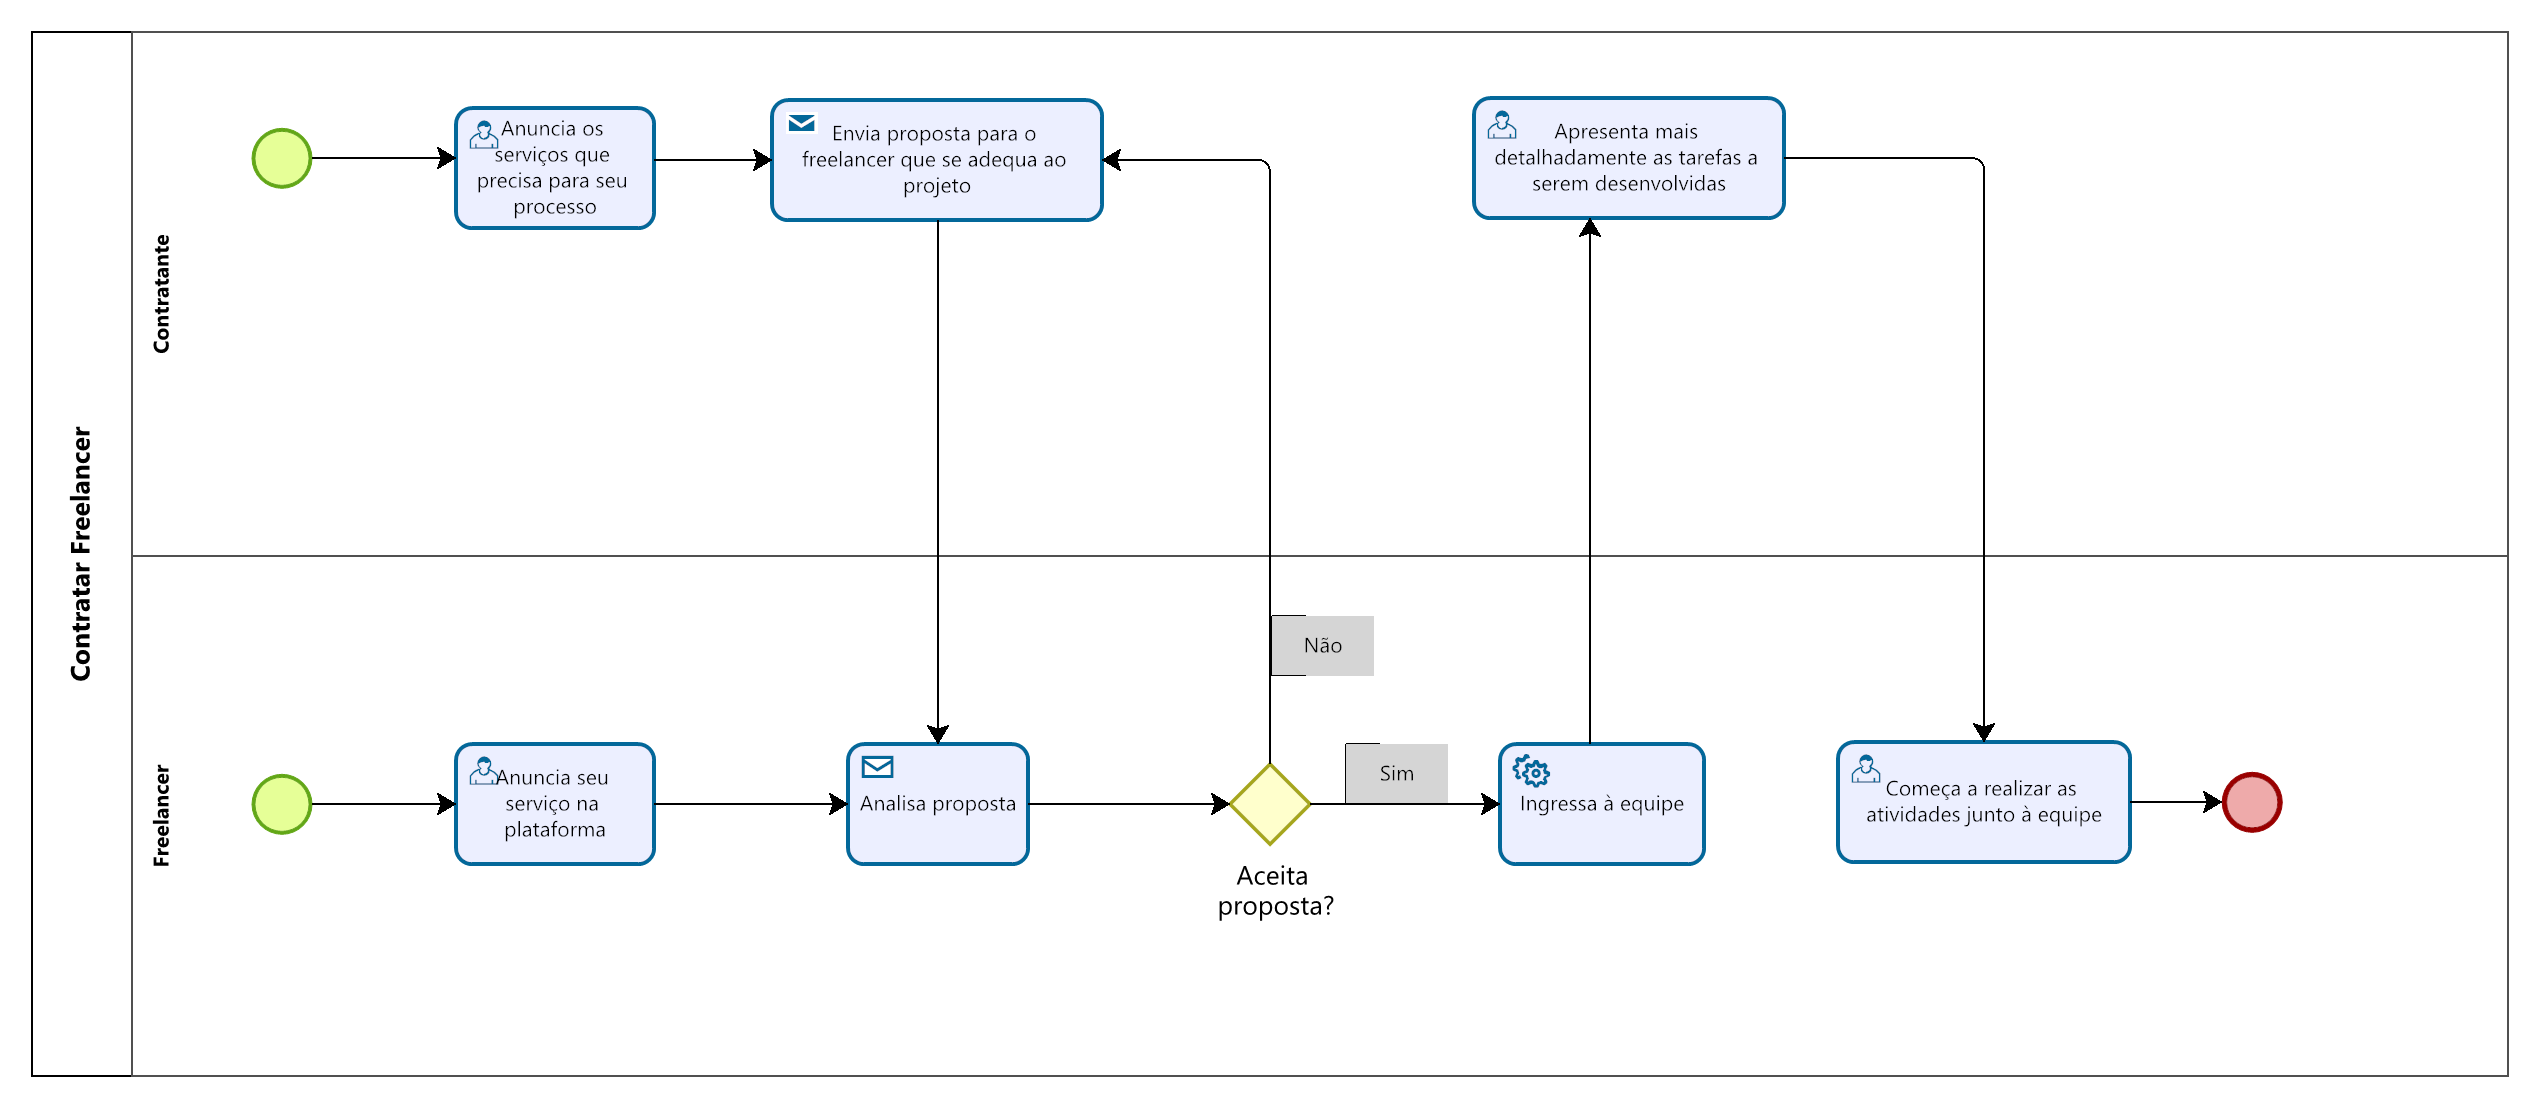
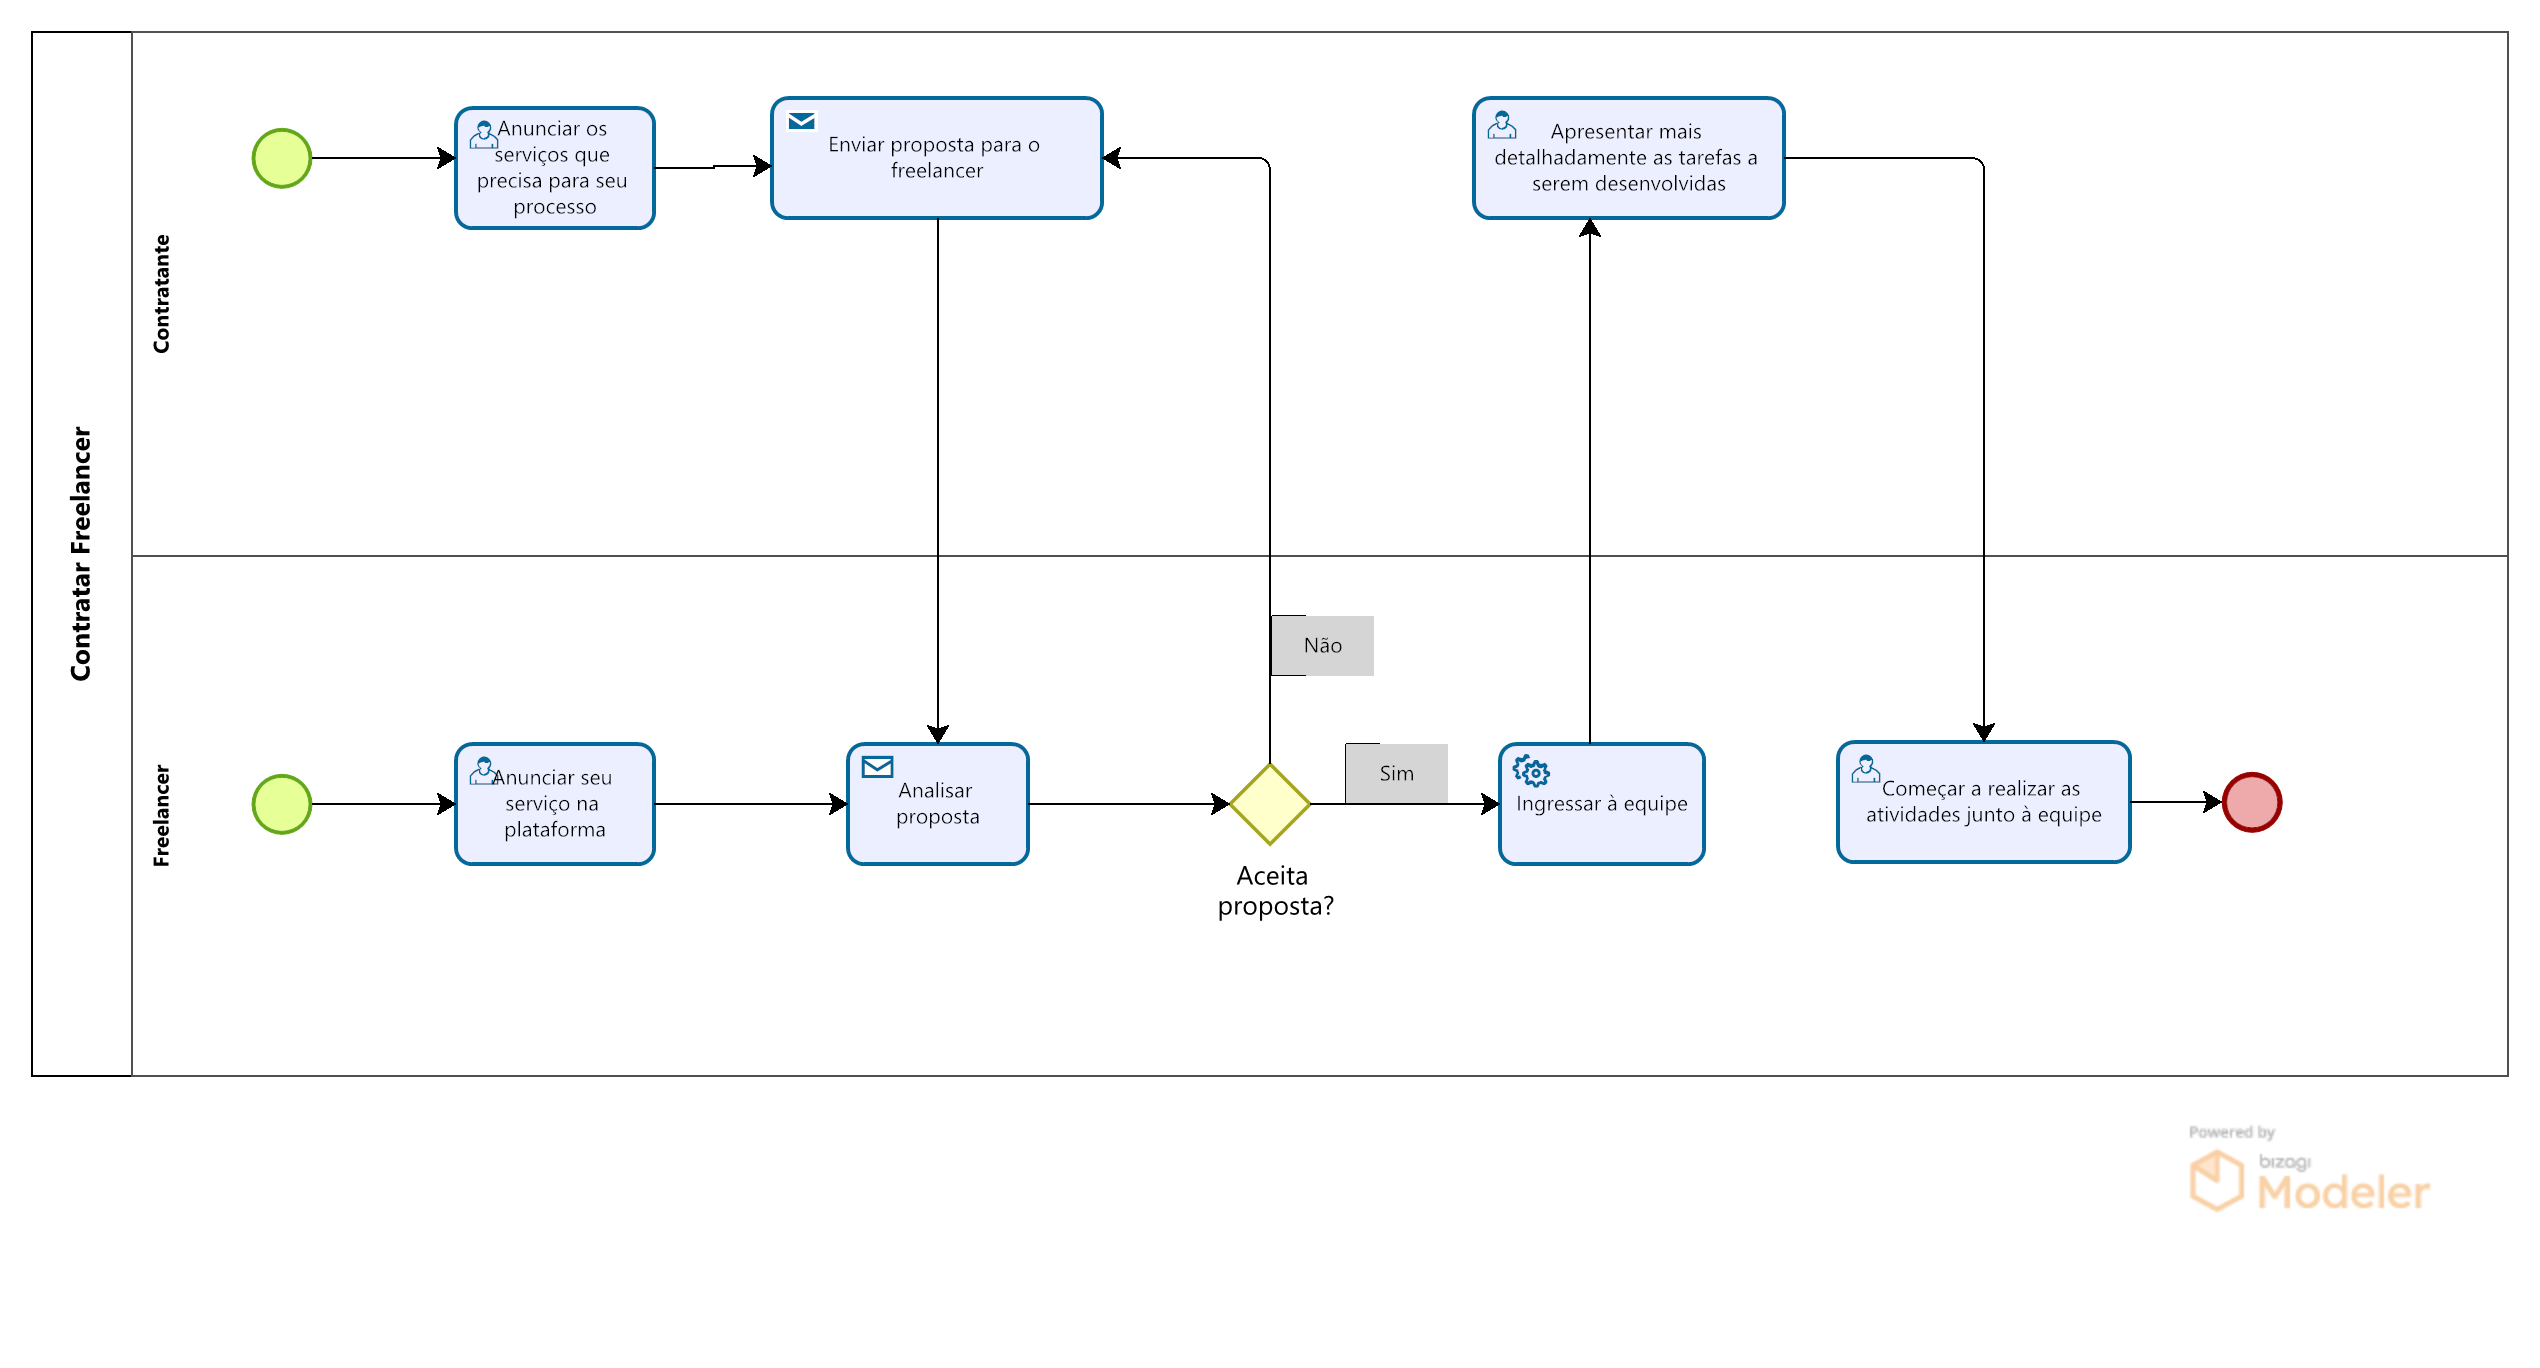
#34 - [Documentação] Correção processo 4: Contratar freelancer.

diff --git a/docs/processos/processo-4-contratar-freelancer.md b/docs/processos/processo-4-contratar-freelancer.md
@@ -5,9 +5,20 @@
 
 #### Detalhamento das atividades
 
-Para contratar um freelancer o contratante precisará anunciar o profissional que necessita em seu time e, em seguida verificar os prestadores de serviço já cadastrados na plataforma.
-Em seguida, deverá enviar uma proposta ao freelancer que mais se adequa à vaga disponível, o qual deve analisar a proposta e aceitar ou não. 
-Ao aceitar, será incluido à equipe e começará a desempenhar as suas funções.
+* **Anunciar os serviços que precisa para seu processo:**
+    O contratante precisa registrar no sistema os serviçoes que necessita para executar o seu projeto.
+
+* **Anunciar seu serviço na plataforma:**
+    O freelancer precisa registrar no sistema o seu trabalho com seu portfólio profissional, para exibir os projetos que já trabalhou e mostrar sua experiência e estilo de trabalho.
+
+* **Enviar proposta para o freelancer:**
+    O contratante escolhe o freelancer que mais se adequa ao seu projeto e envia a sua proposta, que será analisada e respondida pelo profissional, sendo aceita ou não. O que possibilita uma contraproposta por parte do prestador de serviço.
+
+* **Apresentar mais detalhadamente as tarefas a serem desenvolvidas:**
+    Após a proposta aceita por ambas as partes, o contratante apresenta mais detalhes das tarefas que o freelancer terá que realizar e estipula prazos para entrega de resultados.
+
+* **Começar a realizar as atividades junto à equipe:**
+    Após o alinhamento dos detalhes entre contratante e freelancer, o serviço começa a ser realizado em conjunto com um time que pode ser, ou não, composto por mais freelancers responsáveis por outras atividades.
 
 Os tipos de dados a serem utilizados são:
 
